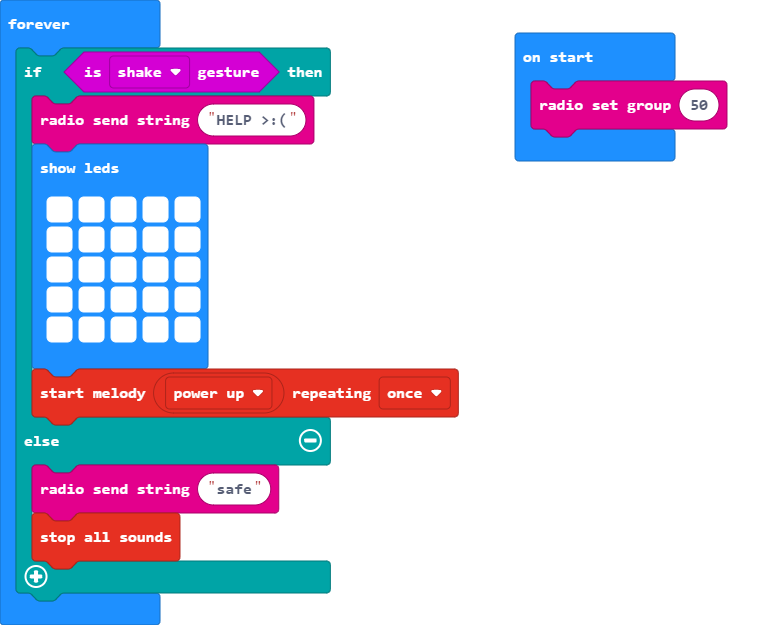
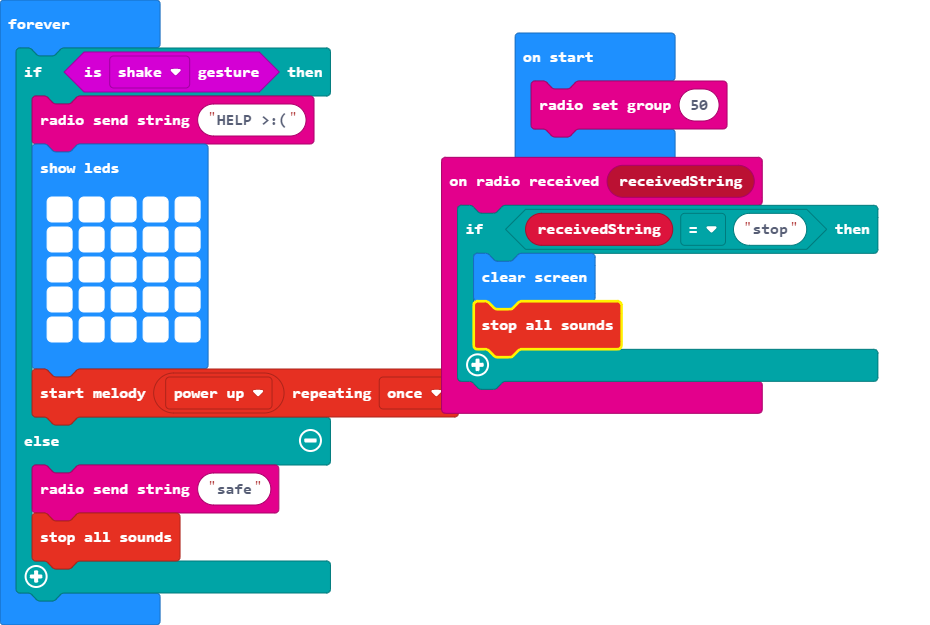
Update main.blocks, main.ts

Changed region(s): [[0.0, 0.0, 0.9551, 0.9728], [0.3389, 0.8816, 0.4313, 0.9728], [0.154, 0.9424, 0.2157, 1.0]]

diff --git a/main.ts b/main.ts
@@ -1,3 +1,9 @@
+radio.onReceivedString(function (receivedString) {
+    if (receivedString == "stop") {
+        basic.clearScreen()
+        music.stopAllSounds()
+    }
+})
 radio.setGroup(50)
 basic.forever(function () {
     if (input.isGesture(Gesture.Shake)) {
